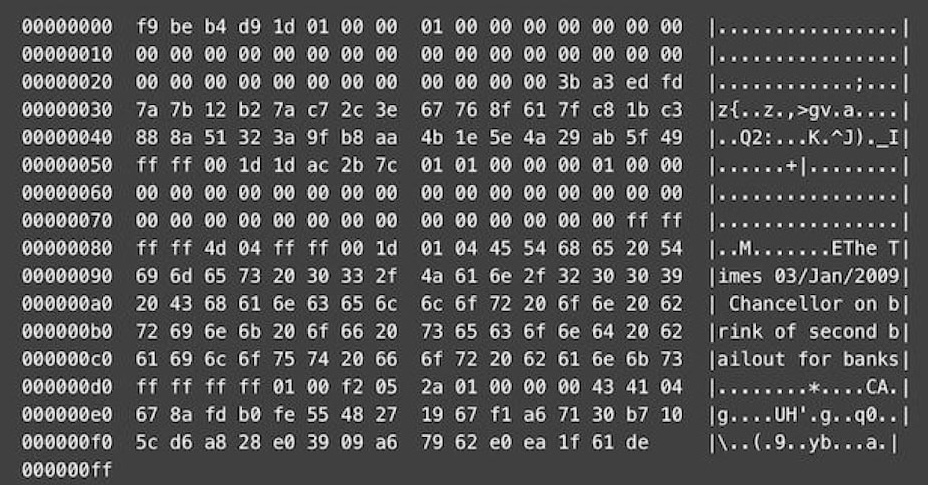
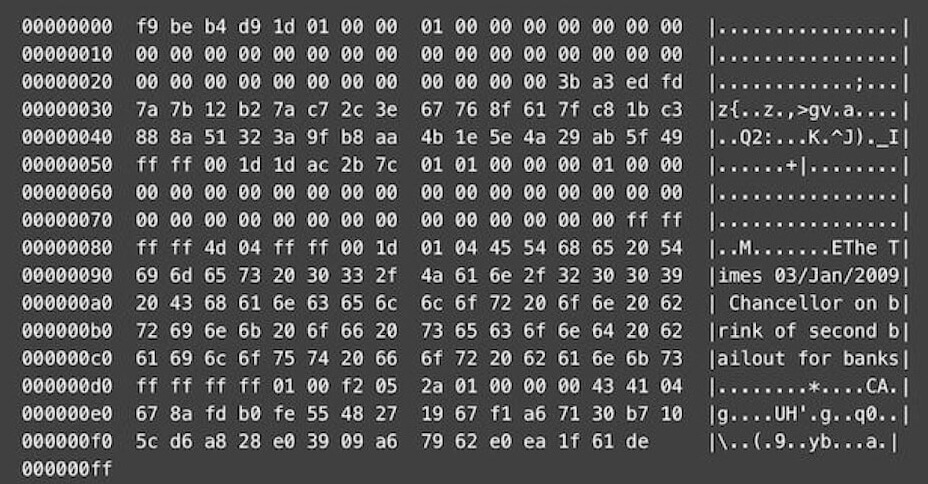
fix: genesis block image

diff --git a/app/docs/history/genesis-block/genesis-block.md b/app/docs/history/genesis-block/genesis-block.md
@@ -12,7 +12,7 @@ That line does two things: it **timestamped** the block (proof it wasn’t pre-m
 
 In the raw block data, the message appears as readable text in the coinbase input. The hex dump below shows the block bytes; the right-hand column is the ASCII interpretation, where the headline is visible.
 
-<img src="/images/docs/genesis-block.jpg" alt="Genesis block hex dump showing The Times headline in the coinbase data" class="doc-img-big" width="800" height="450" />
+<img src="/images/docs/genesis-block.jpg" alt="Genesis block hex dump showing The Times headline in the coinbase data" class="doc-img" width="928" height="484" />
 <p class="doc-img-legend">Genesis block data: the coinbase message visible in the hex dump (right column)</p>
 
 ## Technical Details
